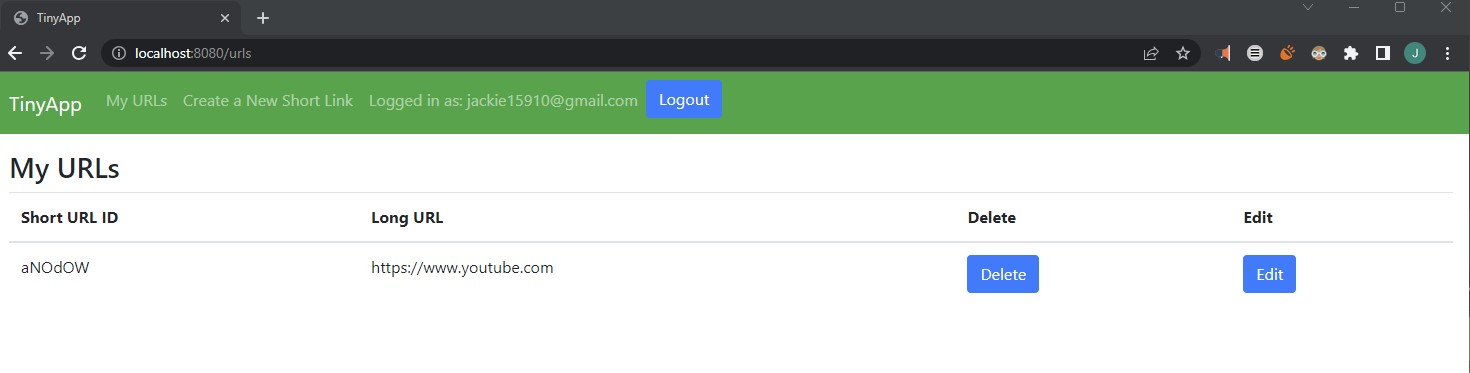
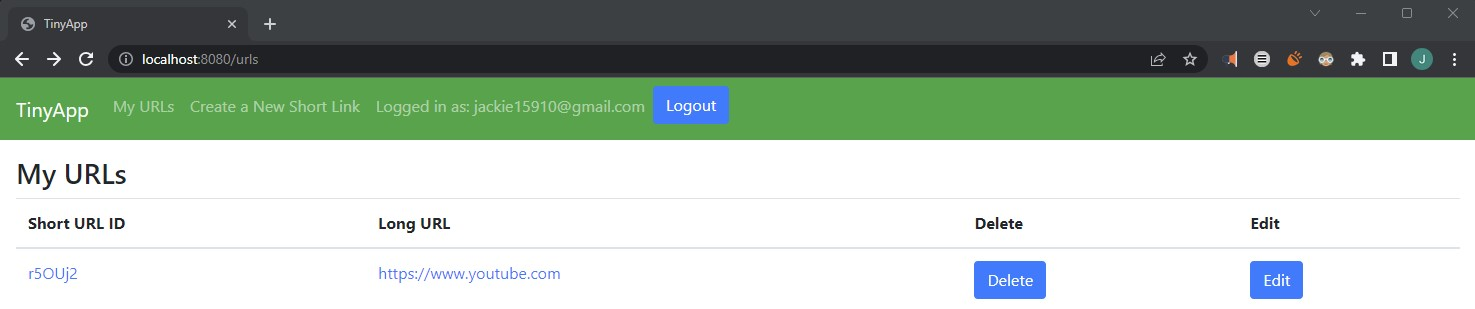
Fixed some bugs, editted header to meet conditions and eslinted

diff --git a/express_server.js b/express_server.js
@@ -21,8 +21,7 @@ app.get("/", (req, res) => {
   }
   if (!user) { //Catches bypass
     res.send("Please <a href='/login'> login</a> before lookinga at URLs, if you don't have an account, please <a href='/register'> register</a> before accessing this site");
-  }
-  else if (user) { //Checks if user is logged in
+  } else if (user) { //Checks if user is logged in
     res.redirect("/urls");
   }
 });
@@ -41,13 +40,13 @@ app.get("/login", (req, res) => {
   const user = users[req.session.user_id];
   if (!req.session.user_id) { //check if user has a cookie
     res.render("login", templateVars);
+    return;
   }
   if (!user) { //Catches bypass
     res.send("Please <a href='/login'> login</a> before lookinga at URLs, if you don't have an account, please <a href='/register'> register</a> before accessing this site");
+    return;
   }
-  else if (user) { //Checks if user is logged in
-    res.redirect("/urls");
-  }
+  res.redirect("/urls");
 });
 
 app.get("/urls/new", (req, res) => {
@@ -88,8 +87,7 @@ app.get("/urls/:id", (req, res) => {
   const urlCheck = urlsForUser(req.session.user_id, urlDatabase);
   if (!user) { //Catches bypass
     res.send("Please <a href='/login'> login</a> before lookinga at URLs, if you don't have an account, please <a href='/register'> register</a> before accessing this site");
-  }
-  else if (!urlCheck[req.params.id]) { //Checks if user owns the URL
+  } else if (!urlCheck[req.params.id]) { //Checks if user owns the URL
     res.send("Error: You do not own this URL.");
   } else {
     res.render("urls_show", templateVars);
@@ -125,14 +123,11 @@ app.post("/register", (req, res) => { //Creates an account with generated ID and
   const password = req.body.password;
   const id = generateRandomString();
   const user = getUserByEmail(req.body.email, users);
-  if (password === "") {
-    res.status(403).send("Please type a password <a href='/login'> Try again</a>");
-  } 
-  else if (email === "") {
-    res.status(403).send("Please type an email <a href='/login'> Try again</a>");
-  }
-  else if (user !== undefined) {
-      res.send("Email exists. Please <a href='/register'> Try again</a>");
+  if (!email || !password) {
+    res.status(403).send("Please provide both email and password <a href='/login'> Try again</a>");
+    return;
+  } else if (user !== undefined) {
+    res.send("Email exists. Please <a href='/register'> Try again</a>");
   } else {
     req.session.user_id = id;
     let hashedPassword = bcrypt.hashSync(req.body.password,10);
@@ -145,14 +140,11 @@ app.post("/login", (req, res) => {
   const email = req.body.email;
   const password = req.body.password;
   const user = getUserByEmail(email, users); //Will redirect to urls if already registered
-  if (email === "") {
-    res.status(403).send("Please type an email <a href='/login'> Try again</a>");
-  }
-  else if (password === "") {
-    res.status(403).send("Please type a password <a href='/login'> Try again</a>");
-  } 
-  else if (bcrypt.compareSync(password, users.password) === false || user === undefined) {
-    res.send("User not found. Please <a href='/login'> Try again</a>");
+  if (!email || !password) {
+    res.status(403).send("Please provide both email and password <a href='/login'> Try again</a>");
+    return;
+  } else if (!user || !bcrypt.compareSync(password, user.password)) {
+    res.send("Invalid email or password, user not found. Please <a href='/login'> Try again</a>");
   } else {
     req.session.user_id = user.id; //Uses the already created ID
     res.redirect("/urls");
@@ -162,6 +154,7 @@ app.post("/login", (req, res) => {
 app.post("/logout", (req, res) => {
   req.session = null; //Clears cookies
   res.redirect("/login");
+  return;
 });
 
 app.post("/urls/:id/delete", (req, res) => {
@@ -181,25 +174,20 @@ app.post("/urls/:id/delete", (req, res) => {
 
 app.post("/urls/:id", (req, res) => { //Edits the long URL
   let userID = req.session.user_id;
+  const user = users[req.session.user_id];
   const urlID = urlDatabase[req.params.id].userID;
   const templateVars = { id: req.params.id, longURL: urlDatabase[req.params.id].longURL, user_id: req.session.user_id, users };
   if (!req.session.user_id) { //check if user has a cookie
     res.send("Error: User is not logged in and/or ID does not exist\n");
-  }
-  else if (!user) { //Catches bypass
+  } else if (!user) { //Catches bypass
     res.send("Please <a href='/login'> login</a> before lookinga at URLs, if you don't have an account, please <a href='/register'> register</a> before accessing this site");
-  }
-  else if (!req.session.user_id) {
-    res.send("Error: User is not logged in and/or ID does not exist\n");
-    return;
-  }
-  else if (urlID !== userID) {
+  } else if (urlID !== userID) {
     res.send("Error: User does not own this URL\n");
     return;
   } else {
-  urlDatabase[req.params.id].longURL = req.body.longURL;
-  res.redirect("/urls");
-}
+    urlDatabase[req.params.id].longURL = req.body.longURL;
+    res.redirect("/urls");
+  }
 });
 
 

diff --git a/test/helpersTest.js b/test/helpersTest.js
@@ -4,25 +4,25 @@ const { getUserByEmail } = require('../helpers.js');
 
 const testUsers = {
   "userRandomID": {
-    id: "userRandomID", 
-    email: "user@example.com", 
+    id: "userRandomID",
+    email: "user@example.com",
     password: "purple-monkey-dinosaur"
   },
   "user2RandomID": {
-    id: "user2RandomID", 
-    email: "user2@example.com", 
+    id: "user2RandomID",
+    email: "user2@example.com",
     password: "dishwasher-funk"
   }
 };
 
 describe('getUserByEmail', function() {
   it('should return a user with valid email', function() {
-    const user = getUserByEmail("user@example.com", testUsers)
+    const user = getUserByEmail("user@example.com", testUsers);
     const expectedUserID = "userRandomID";
     assert.equal(user.id, expectedUserID);
   });
   it('should return undefined with invalid email', function() {
-    const user = getUserByEmail("asdfasdf@asdfasdf.com", testUsers)
+    const user = getUserByEmail("asdfasdf@asdfasdf.com", testUsers);
     assert.equal(user, undefined);
   });
 });

diff --git a/helpers.js b/helpers.js
@@ -1,12 +1,10 @@
-
-
 getUserByEmail = (emailAddress, database) => {
   for (let id in database) {
     if (database[id].email ===  emailAddress) {
       return database[id];
     }
   }
-}
+};
 
 generateRandomString = (length = 6) => {
   const alphanumeric = 'abcdefghijklmnopqrstuvwxyzABCDEFGHIJKLMNOPQRSTUVWXYZ0123456789';
@@ -16,7 +14,7 @@ generateRandomString = (length = 6) => {
     randomString += alphanumeric.charAt(randomIndex);
   }
   return randomString;
-}
+};
 
 urlsForUser = (id, database) => {
   const urls = {};
@@ -26,6 +24,6 @@ urlsForUser = (id, database) => {
     }
   }
   return urls;
-}
+};
 
 module.exports = {getUserByEmail, generateRandomString, urlsForUser};

diff --git a/database.js b/database.js
@@ -1,6 +1,6 @@
 const users = {
-  // id: "userID", 
-  // email: "email", 
+  // id: "userID",
+  // email: "email",
   // password: "hashed password"
 };
 
